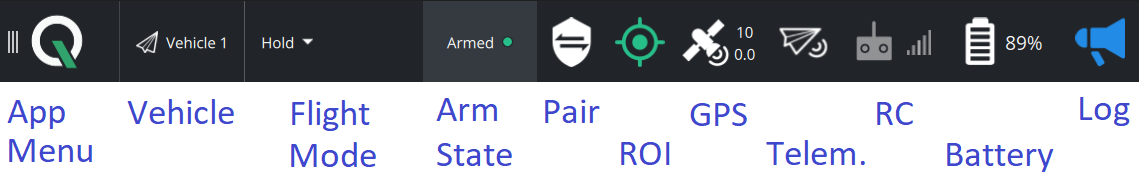
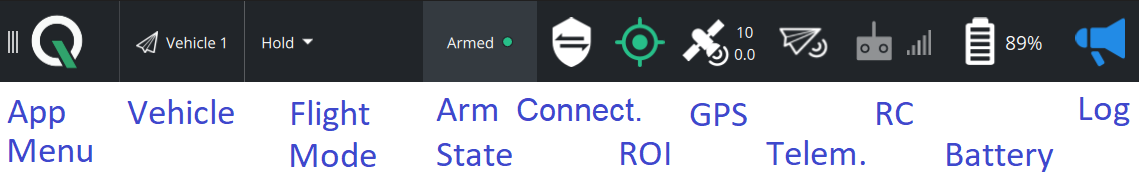
Lots of fixes up to orbit etc

Changed region(s): [[0.4302, 0.522, 0.5838, 0.6868]]

diff --git a/docs/qgc_gov_user_guide.md b/docs/qgc_gov_user_guide.md
@@ -136,7 +136,7 @@ The first step is to setup the radio attached to your ground station:
 
 After indicating that you want to pair to a vehicle the _Pair vehicle dialog_ will appear:
 
-1. When the pair vehicle dialog appears
+1. When the pair vehicle dialog appears:
 
    ![](images/connection_manager_9_pairing_setup_ground_radio_dialog_discovering_pair_discovered_vehicle.png)
    
@@ -149,11 +149,11 @@ After indicating that you want to pair to a vehicle the _Pair vehicle dialog_ wi
    
    ![](images/connection_manager_10_pairing_connected_manage_connections.png)
    
-If the pairing doesn't succeed the wheel on the pairing dialog spins and the sub title changes to "Retrying with pairing". Retrying can be ended only by clicking "Cancel".
+If the pairing doesn't succeed the wheel on the pairing dialog spins and the subtitle changes to "Retrying with pairing". Retrying can be ended only by clicking "Cancel".
 
 ### Connecting to a Vehicle
 
-After a vehicle has been paired it will be displayed on the **Manage Connections** dialog allowing easy reconnection:
+After a vehicle has been paired it will be always be displayed on the **Manage Connections** dialog, allowing easy reconnection:
 
 1. Click the _Connections_ icon in the toolbar to launch the **Manage Connections** dialog.
 
@@ -210,7 +210,6 @@ You can change the connection channel using the **Manage Connections** dialog:
    ![](images/connection_manager_17_pairing_connected_manage_connect_again_connected.png)
 
 
-
 # App Menu
 
 The application menu is accessed from the **Q** icon on the top left of the application.
@@ -227,7 +226,11 @@ The menu provides access to separate views which are used for each main activity
 [Plan](#plan-view)
   ~ &nbsp;
   ~ Planning missions, geofence, and rally points.
-
+  
+Tactical
+  ~ &nbsp;
+  ~ TBD <!-- also need to update sidebar image above -->
+  
 [Vehicle Setup](#vehicle-setup)
   ~ &nbsp;
   ~ Configure vehicle-specific settings (calibration, failsafes, etc.).
@@ -242,10 +245,6 @@ The menu provides access to separate views which are used for each main activity
 
 > **Note:** You can toggle between [Fly](#fly-view) and [Plan](#plan-view) using a dedicated toolbar button in each view
 
-<!--
-![Switch to Fly View](images/app_switch_to_fly.png) ![Switch to Plan View](images/app_switch_to_plan.png) \ 
--->
-
 
 # Fly View
 
@@ -256,7 +255,7 @@ You can fly with either map or video feed in the foreground, and monitor the sta
 
 ![Fly View - Video](images/fly_view_main_video.png) \
 
-The main sections of the fly view are:
+The main sections of the _Fly View_ are:
 
 <!-- TBD - finish this list on main sections -->
 
@@ -289,7 +288,7 @@ The main sections of the fly view are:
 
 ![Fly View: Top Bar](images/fly_view_top_bar.png) \
 
-The Fly View app bar is used to monitor high level vehicle state and modes, and to set the current vehicle, mode, and armed state.
+The _Fly View_ app bar is used to monitor high level vehicle state and modes, and to set the current vehicle, mode, and armed state.
 The status icons can be selected for additional information.
 
 <!-- TODO: Cross link this to sections --> 
@@ -311,10 +310,10 @@ Vehicle
 Arm state
   ~ &nbsp;
   ~ Display _arm state_: Armed (motors spinning), Disarmed (motors stopped).
-  ~ Select to arm/disarm on ground, or emergency stop in air.
+  ~ Select to arm/disarm on ground.
   ~ Select to _emergency stop_ in air.
   
-[Pairing](#pairing)
+[Connection management](#connection-management)
   ~ &nbsp;
   ~ Pair and connect vehicle and ground station.
 
@@ -432,18 +431,18 @@ QGC-Gov supports: _street view_, _satellite view_, or _hybrid satellite/street v
 
 ### Map Actions (Fly View)
 
-Actions that require a position are initiated by touching the location on the map (when flying).
+Actions that require a position are initiated by selecting the location on the map (when flying).
 A popup menu will be displayed allowing the desired operation to be selected.
 
 ![Map actions (Fly View)](images/fly_view_map_actions.png) \
 
-Map actions must be acknowledged using a confirmation slider prompt.
+Map actions must be acknowledged using a [confirmation prompt](#confirmation-prompts).
 You may also need to set some additional information like the orbit radius.
 After acknowledging the prompt a [map marker](#map-markers) is added to the map and the action will be executed.
 
 For more information see:
 
-- [Goto Location](#goto-task) (Flying using High-Level Commands)
+- [Goto Location](#goto-location) (Flying using High-Level Commands)
 - [Orbit Location](#orbit-location) (Flying using High-Level Commands)
 - [Region of Interest](#region-of-interest) (Flying Manually)
 
@@ -462,13 +461,16 @@ Marker | Description
 **(O)** Orbit here | The center of a [Orbit here](#orbit-location) target.
 **(R)** ROI here | The current [Region of interest (ROI)](#region-of-interest).
 **(L)** | Land/Home marker.
-![](images/fly_view_waypoint.png) \ | Mission waypoint
-![](images/fly_view_waypoint_selected.png) \ | Selected (target) mission waypoint
+![](images/fly_view_waypoint.png) | Mission waypoint
+![](images/fly_view_waypoint_selected.png) | Selected (target) mission waypoint
 
 
 ### Map Grid (MGRS)
 
 The map in **Fly-** and **Plan View** may (optionally) overlay a grid and vehicle position information in MGRS coordinates.
+
+> **Note:** Enable the overlay in the settings by selecting the checkbox:
+> **Application Settings > General > Miscellaneous > Display MGRS coordinates**.
 
 ![MGRS Map overlay](images/map_mgrs.png)  <!-- image112.jpg -->
 
@@ -476,7 +478,8 @@ The grid overlay shows map coordinates with 10m resolution \[4 digits\].
 
 The information strip at the bottom is visible in **Fly View** only.
 It provides the position of the *map center* (caret icon) and the *vehicle* (plane icon) to one meter accuracy \[5 digits\].
- ![](images/image21.png)
+
+![](images/image21.png)
 
 The strip will additionally include the *ground station location* ("person" icon) **if** the ground station has a GPS module.  
 
@@ -487,12 +490,10 @@ The strip will additionally include the *ground station location* ("person" ico
 >
 > For more information see [MGRS coordinates](https://en.wikipedia.org/wiki/Military_Grid_Reference_System) (Wikipedia).
 
-Enable the overlay in the settings by selecting the checkbox:
-**Application Settings > General > Miscellaneous > Display MGRS coordinates**.
 
 ## Fly Toolbar
 
-The fly toolbar is used to execute flight and preflight operations that do not require a specific map position.
+The _Fly View Toolbar_ is used to execute flight and preflight operations that do not require a specific map position.
 
 ![Fly View Toolbar](images/fly_view_toolbar.png) \
 
@@ -527,7 +528,7 @@ All toolbar actions are listed below.
   
 Action
   ~ &nbsp;
-  ~ Display additional (context-sensitive) actions for the current vehicle state.
+  ~ Display additional context-sensitive actions for the current vehicle state.
     May be used to change the altitude, pause, continue or edit a mission, takeoff if landed, etc.
   
 [Edit](#pause-edit-continue-a-mission)
@@ -538,28 +539,8 @@ Action
   ~ &nbsp;
   ~ TBD <!-- TODO: What is this? -->
 
-<!-- 
-Tool | Description
---- | -----------
-[Plan](#plan-view) | Switch to Plan View (in order to plan a mission, geofence or rally point).
-[Checklist](#preflight-checklist) | Start pre-flight safety checks.
-[Takeoff](#takeoff-mode) | Arm vehicle and takeoff (option visible if landed).
-[Land](#land-mode) | Land vehicle and disarm (option visible if flying).
-[Return](#return-mode) | Fly to a safe point. The path/landing behaviour depends on vehicle configuration.
-[Pause](#hold-mode) | Pause current operation.
-Action | Display additional (context-sensitive) actions for the current vehicle state. May be used to continue or edit a mission, or to change the altitude.
-[Edit](#pause-edit-continue-a-mission) | Edit the current mission (only visible when in a paused mission).
-[Overlay] | TBD 
 
-![Plan](images/image227.png) 
-![Checklist](images/image163.png)
-![Takeoff](images/image27.png)
-![Land](images/image14.png)
-![Return](images/image183.png)
-![Pause](images/image88.png)
-![Action](images/image36.png)
-![Edit](images/image45.png) 
--->
+### Confirmation Prompts
 
 All operations must be confirmed using a slider before they will be executed.
 Confirmation prompts are displayed in the bottom center of the map (if an altitude can be set for an operation, a vertical slider will be displayed at the same time).
@@ -622,7 +603,6 @@ Additional controls are displayed in the switcher if it is selected:
 - Change the [map type](#map-types) using the icon on the bottom right.
 
 ![Video Switcher - Overlay options](images/fly_view_video_switcher_overlay.png)  <!-- image118.png -->
-
 
 
 ## Camera View
@@ -695,7 +675,7 @@ The controls, in order are:
 - Free SD card memory
 - Camera mode
 - Capture
-- Open settings for current capture mode
+- Open settings to configure current capture mode
 - Elapsed time for current video (Video mode) / Number of captured pictures (Camera mode)
 
 
@@ -763,17 +743,13 @@ The settings that are *independent of the camera type* are listed below.
 - `Reset Camera Defaults`: Reset camera/gimbal to default settings.
 
 
-
-
 ## Flight Modes
-
-<!-- not sure this should go here yet -->
 
 Flight modes provide different types of autopilot assistance to a pilot, including automation of common operations like *takeoff* and *landing*, execution of fully autonomous missions, and changing how the vehicle responds to pilot input during manual flight (for example by making it easier to regain level flight, hold the vehicle to a fixed path or position, etc.).
 
 The current mode is displayed in the [flight mode selector](#flight-mode-selector) in the [Fly View app bar](#fly-view-app-bar).
-The selector can be opened to select *Position* or *Altitude* mode.
-Other modes are selected from the Fly Toolbar, such as Takeoff mode, Return mode, and land mode, or other controls.
+The selector can be opened to select [Position](#position-mode) or [Altitude](#altitude-mode) mode.
+Other modes are selected from the [Fly Toolbar](#fly-toolbar), such as [Takeoff mode](#takeoff-mode), [Return mode](#return-mode), and [Land mode](#land-mode), or other controls.
 
 The most important flight modes and tasks are covered at high level below.
 
@@ -849,10 +825,9 @@ In some cases Hold mode can be used for high level vehicle control, including go
 This mode is automatically activated when you start a mission in QGC.
 
 
-
 # Fly using High-Level Commands
 
-Fly View enables simple directed flight and image capture using high level commands: takeoff, fly to location, fly to location and orbit,
+_Fly View_ enables simple directed flight and image capture using high level commands: takeoff, fly to location, fly to location and orbit,
 point camera, take picture, land where you are, return home and land, etc.
 
 The command mechanisms are very simple:
@@ -868,7 +843,9 @@ In each case the action must be acknowledged using a confirmation dialog slider.
 
 ## Takeoff, Land, RTL, Pause
 
-The basic flight operations are all initiated by pressing the appropriate button on the toolbar and then using the slider on a confirmation prompt:
+<!-- all of this might be better structured into "fly actions" subsection - extended to show the options -->
+
+The basic flight operations are all initiated by pressing the appropriate button on the toolbar and then using the slider on a [confirmation prompt](#confirmation-prompts):
 
 - **Takeoff** - Arm and takeoff to specified altitude (altitude specified using vertical slider).
 - **Land** - Land immediately at current location
@@ -877,39 +854,28 @@ The basic flight operations are all initiated by pressing the appropriate button
 
 ## Goto Location
 
-<!-- 
-
-The *GoTo Task* takes you to a specific location.
-This task is run from within *Hold Mode* when you select a [Go to Location](#goto-location) on the map.
-
--->
-
 To send the vehicle to a particular location:
 
 1. First takeoff
 2. Choose the map location where you want the drone to go and select the **Go to location** option:
 
-   ![](images/image228.png)
+   ![](images/fly_view_map_action_gotolocation.png)
 3. Confirm using the slider (note the target location is shown on the map):
 
-   ![](images/image171.png)
+   ![](images/fly_view_action_gotolocation_confirm.png)
 
 ## Orbit Location
-
-<!-- *Orbit Mode* (multicopter only) starts an orbit at a specific location.
-This mode is started when you select [Orbit at Location](#orbit-location) on the map.
--->
 
 To orbit a particular location:
 
 1. First takeoff
 2. Choose the map location where you want the drone to orbit and select the **Orbit at location** option:
 
-   ![](images/image108.png)
+   ![](images/fly_view_action_menu_orbit.png)
 3. Drag and drop the center of the orbit and its radius on the map using the white markers provided.
    You can also set the altitude using the vertical slider on the right.
 
-   ![](images/image99.png)
+   ![](images/fly_view_action_orbit.png)
 4. When you're satisfied, confirm using the slider.
 5. The vehicle will then fly to the location and orbit.
 
